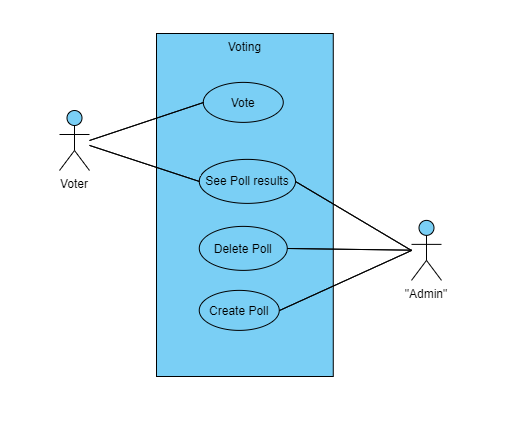
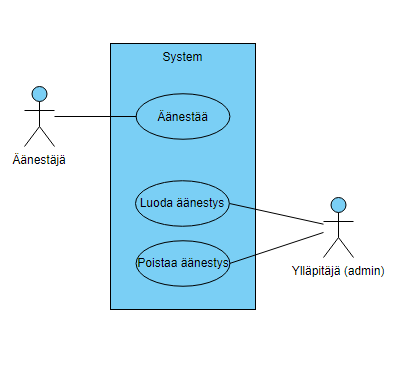
added käyttötapaus

diff --git a/index.js b/index.js
@@ -70,3 +70,4 @@ function debug() {
 }
 
 let myPoll = new TestPoll();
+

diff --git a/käyttötapaus.md b/käyttötapaus.md
@@ -1,0 +1,41 @@
+# #663 Käyttötapauskuvaukset
+ **Käyttötapaus 1: Äänestys**
+ * **käyttäjä:** Äänestäjä.
+ * **Laukaisija:** Äänestäjän halu äänestää.
+ * **Esiehto:** Äänestäjä ei ole äänestänyt kyseisessä äänestyksessä.
+ * **Jälkiehto:** Äänestys on saanut yhden äänen lisää.
+ * **Käyttötapauksen kulku:**
+    1. Äänestäjä valitsee haluamansa äänestyksen.
+    2. Järjestelmä näyttää kyseisen äänestyksen tilanteen.
+    3. Äänestäjä äänestää.
+    4. Järjestelmä tarkistaa onko Äänestäjä äänestänyt jo kyseistä äänestystä
+    5. Järjestelmä lisaa yhden äänen äänestäjän valitsemaansa vaihtoehtoon.
+ * **Poikkeuksellinen toiminta:**
+    1. 4a. Äänestäjä on jo äänestänyt kyseisessä äänestyksessä jonka takia ei voi äänestää
+
+ **Käyttötapaus 2: Luoda äänestys**
+ * **käyttäjä:** admin.
+ * **Laukaisija:** adminin tarve luoda äänestys.
+ * **Esiehto:** admin on kirjautunut sisään.
+ * **Jälkiehto:** admin on luonut uuden äänestyksen.
+ * **Käyttötapauksen kulku:**
+    1. admin alkaa luomaan uutta äänestystä.
+    2. Järjestelmä kysyy äänestykseen liittyvät tiedot.
+    3. admin lisää tiedot.
+    4. Järjestelmä luo uuden äänestyksen annetuilla tiedoilla.
+ * **Poikkeuksellinen toiminta:**
+    1. 1a. admin ei ole kirjautunut sisään
+
+ **Käyttötapaus 3: Poistaa äänestys**
+ * **käyttäjä:** admin.
+ * **Laukaisija:** adminin tarve poistaa äänestys.
+ * **Esiehto:** admin on kirjautunut sisään.
+ * **Jälkiehto:** admin on poistanut haluamansa äänestyksen.
+ * **Käyttötapauksen kulku:**
+    1. järjestelmä katsoo onko käyttäjä admin
+    2. admin valitsee äänestyksen minkä haluaa poistaa.
+    3. Järjestelmä varmistaa onko poistettava äänestys oikea.
+    4. admin varmistaa että on oikea äänestys.
+    5. Järjestelmä poistaa äänestyksen.
+ * **Poikkeuksellinen toiminta:**
+    1. 1a. admin ei ole kirjautunut sisään
